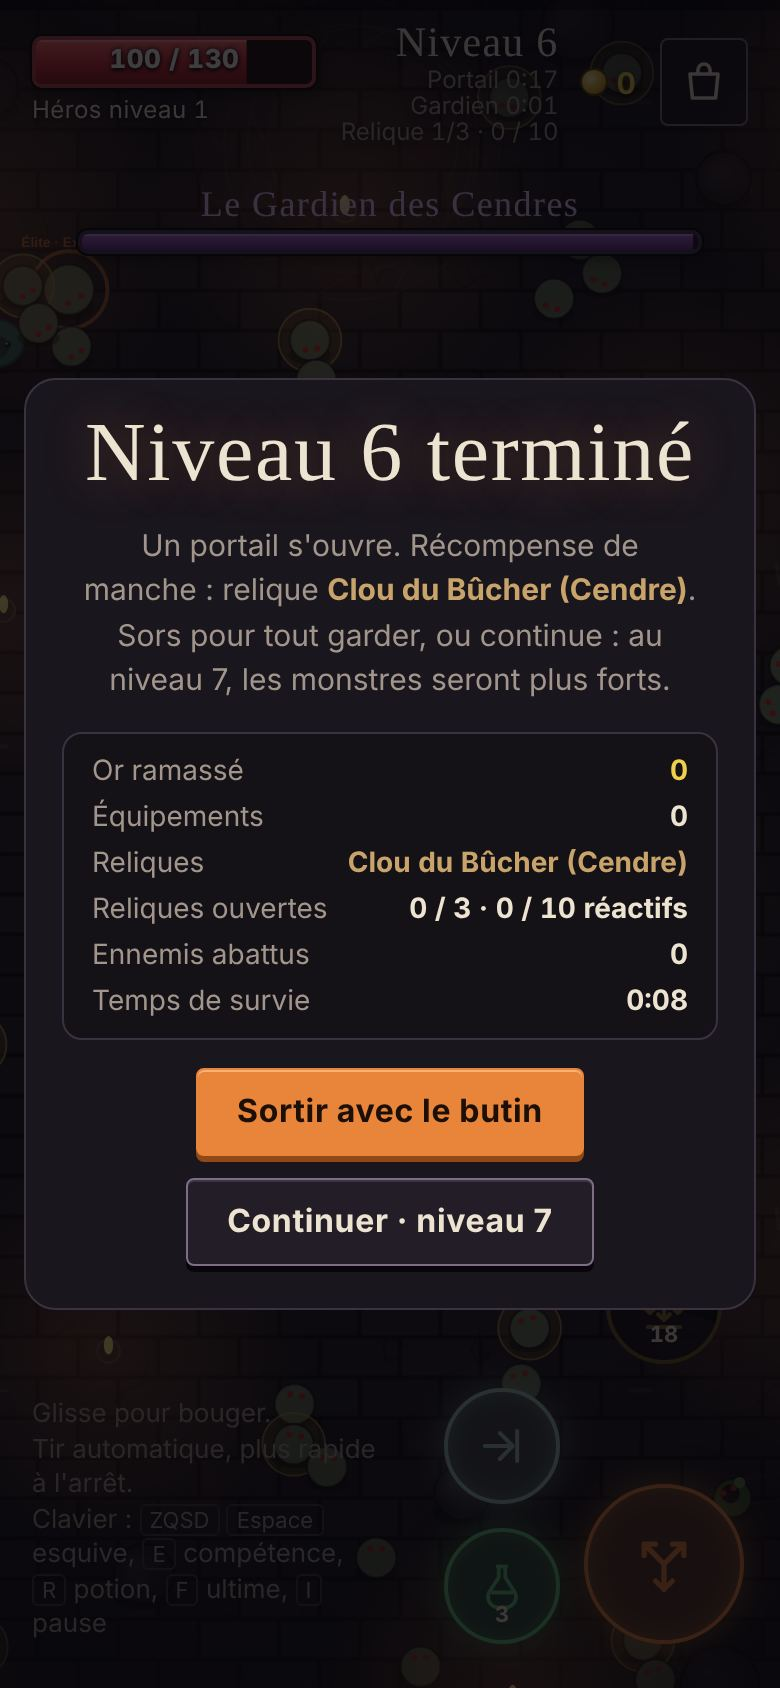
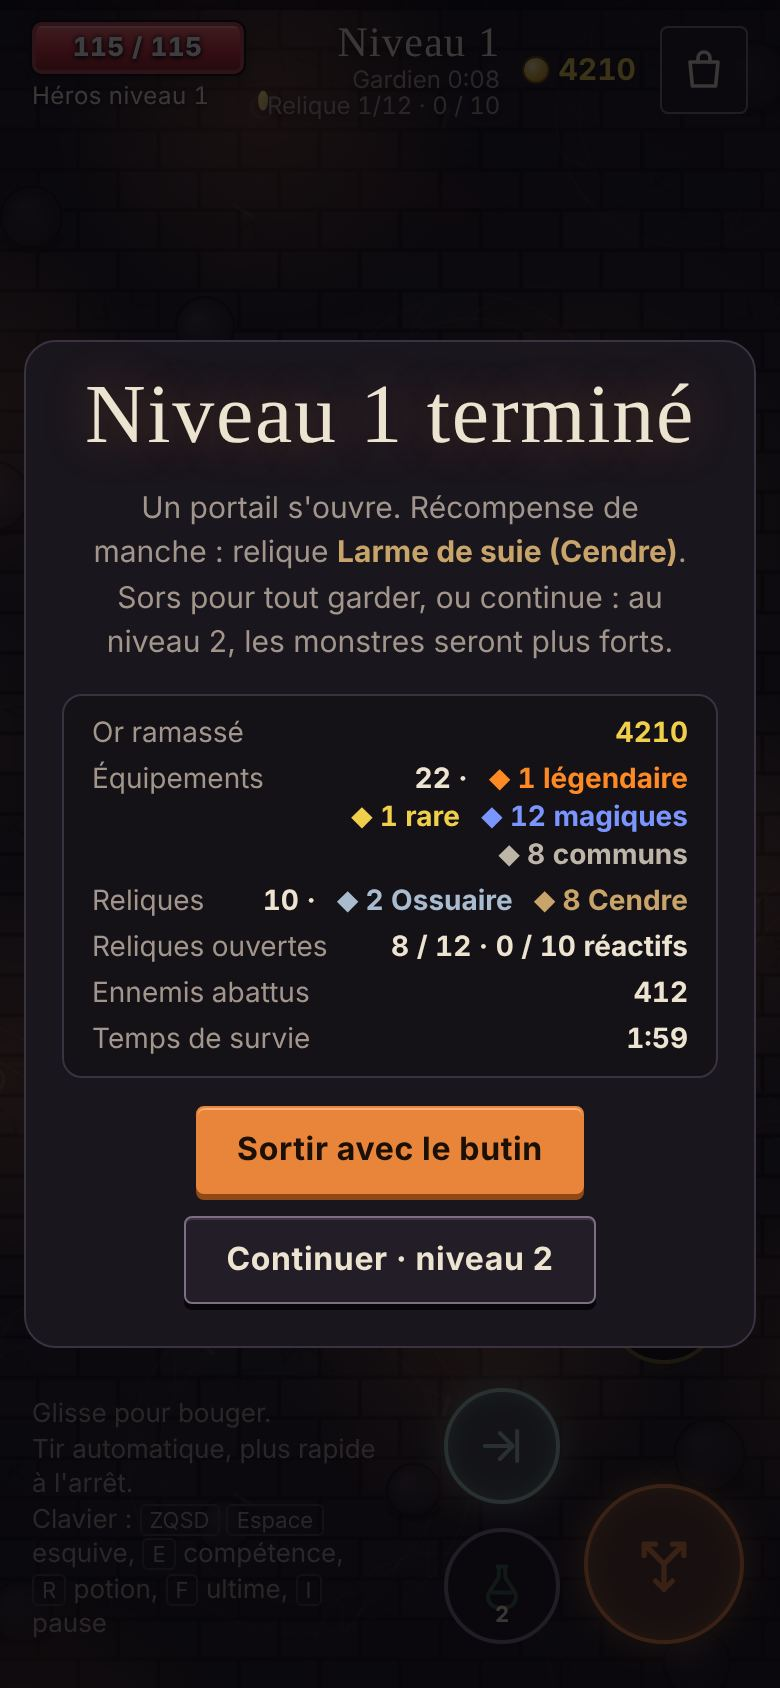
v85 : guide (résumé de butin, rythme des Gardiens, nouvelles captures)

diff --git a/aide/index.html b/aide/index.html
@@ -254,10 +254,13 @@ details.more .tbl{margin:0 14px 14px}
     </ul>
     <h3>Sortir ou continuer</h3>
     <p><b>Sortir avec le butin</b> garde tout ce que tu as ramassé. <b>Continuer</b> fait monter le niveau : monstres plus forts, meilleur butin, et le niveau atteint devient disponible comme niveau de départ.</p>
+    <h3>Résumé de butin</h3>
+    <p>L'écran du portail et l'écran de fin de mission réussie (Survie, Capture, Défense et Brèche) montrent le même résumé, en compteurs : or ramassé, équipements (total et nombre par rareté), reliques (total et nombre par niveau : Cendre, Ossuaire, Sanguine, Abysse), fragments, ennemis abattus et durée. À la fin, un second encadré fait le bilan des reliques ouvertes : essence, or, fragments de schéma, objets Sanguins et Abyssaux par leur nom, œufs de familier, et reliques non ouvertes (qui restent équipées). Le détail relique par relique se déplie sous « Détail des n reliques ».</p>
     <p class="tip warn"><b>Si tu meurs</b>, tu gardes la moitié de l'or, les mods et ce que tu as équipé depuis le sac. Les objets et reliques trouvés pendant la mission sont perdus. Équipe tout de suite ce qui compte vraiment.</p>
   </div>
-  <div class="shots one">
+  <div class="shots">
     <figure><button class="shot" type="button"><img src="img/extract.jpg" alt="Fin de manche : sortir avec le butin ou continuer" width="780" height="1688" loading="lazy"></button><figcaption>Fin de manche en Survie.</figcaption></figure>
+    <figure><button class="shot" type="button"><img src="img/end.jpg" alt="Écran Extraction réussie avec le résumé du butin et le bilan des reliques" width="780" height="1688" loading="lazy"></button><figcaption>Fin de mission : résumé et reliques ouvertes.</figcaption></figure>
   </div>
 </div></section>
 
@@ -278,7 +281,7 @@ details.more .tbl{margin:0 14px 14px}
       </tbody>
     </table></div>
     <h3>Gardiens</h3>
-    <p>Un Gardien surgit à intervalle régulier (minuteur en haut). Il tire des anneaux de projectiles, charge, et invoque des goules sous la moitié de sa vie. Sa barre s'affiche en haut de l'écran. Il lâche toujours une relique, deux équipements, des mods, une potion et de l'essence.</p>
+    <p>Un Gardien surgit à intervalle régulier (minuteur en haut) : toutes les 60 s en Survie (45, 35 puis 25 s ou moins selon la difficulté), une fois et demie moins souvent en Capture, et avec chaque vague de sortie (toutes les 3 vagues) en Défense. Il tire des anneaux de projectiles, charge, et invoque des goules sous la moitié de sa vie. Sa barre s'affiche en haut de l'écran. Il lâche toujours une relique, deux équipements, des mods, une potion et de l'essence.</p>
     <h3>Élites</h3>
     <p>Certains groupes contiennent une élite : plus grande, quatre fois plus de vie, un anneau coloré et son nom au-dessus d'elle. Elle a un pouvoir : <b>Rapide</b>, <b>Bouclier</b> (encaisse moitié moins tant qu'elle a plus de la moitié de sa vie), <b>Vampire</b> (se soigne en frappant) ou <b>Explosif</b> (laisse des flammes en mourant). Elle lâche toujours un bon objet.</p>
   </div>
@@ -378,8 +381,9 @@ details.more .tbl{margin:0 14px 14px}
     </ul>
     <p>Chaque recette indique dans quelles reliques trouver ses fragments manquants.</p>
   </div>
-  <div class="shots one">
+  <div class="shots">
     <figure><button class="shot" type="button"><img src="img/camp_arsenal.jpg" alt="Armurerie : armes du héros et fragments" width="780" height="1688" loading="lazy"></button><figcaption>L'Armurerie, avec les boutons groupés.</figcaption></figure>
+    <figure><button class="shot" type="button"><img src="img/camp_weapons.jpg" alt="Armurerie, vue Mes armes : armes possédées avec DPS comparé" width="780" height="1688" loading="lazy"></button><figcaption>Mes armes : tes armes et leur DPS.</figcaption></figure>
   </div>
 </div></section>
 
@@ -644,7 +648,7 @@ details.more .tbl{margin:0 14px 14px}
 
 </main>
 
-<footer class="wrap">Crypte des Cendres · guide à jour de la version 84 du jeu. <a href="../index.html">Retour au jeu</a></footer>
+<footer class="wrap">Crypte des Cendres · guide à jour de la version 85 du jeu. <a href="../index.html">Retour au jeu</a></footer>
 
 <dialog id="zoom" aria-label="Capture agrandie"><button type="button" id="zoomX" aria-label="Fermer">×</button><img id="zoomImg" alt=""></dialog>
 

diff --git a/sw.js b/sw.js
@@ -1,5 +1,5 @@
 // Crypte des Cendres — cache hors ligne. Change VERSION à chaque mise à jour du jeu.
-const VERSION = 'crypte-v84';
+const VERSION = 'crypte-v85';
 const CORE = ['./', './index.html', './manifest.webmanifest', './css/game.css', './js/data.js', './js/game.js', './js/render.js', './js/ui.js', './js/camp.js', './js/seal.js', './js/pet.js', './js/settings.js', './js/audio.js', './js/net.js', './js/main.js', './js/update.js', './icons/icon-192.png', './icons/icon-512.png', './icons/maskable-512.png', './icons/apple-touch-icon.png'];
 const EXTERNAL = ['https://cdn.jsdelivr.net/npm/pixi.js@7.4.2/dist/pixi.min.js'];
 
